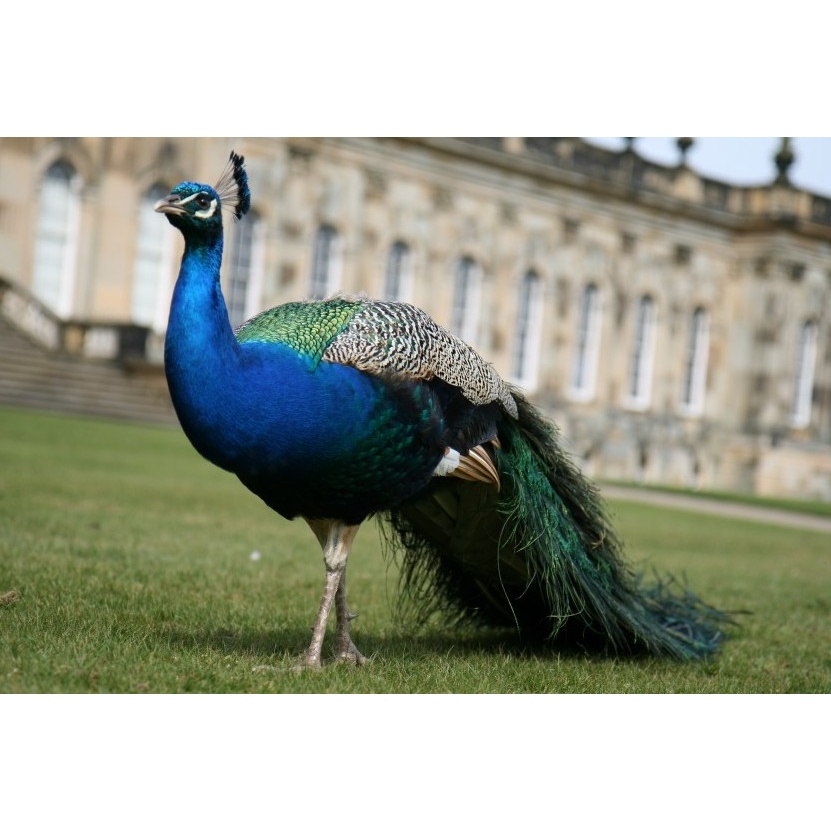
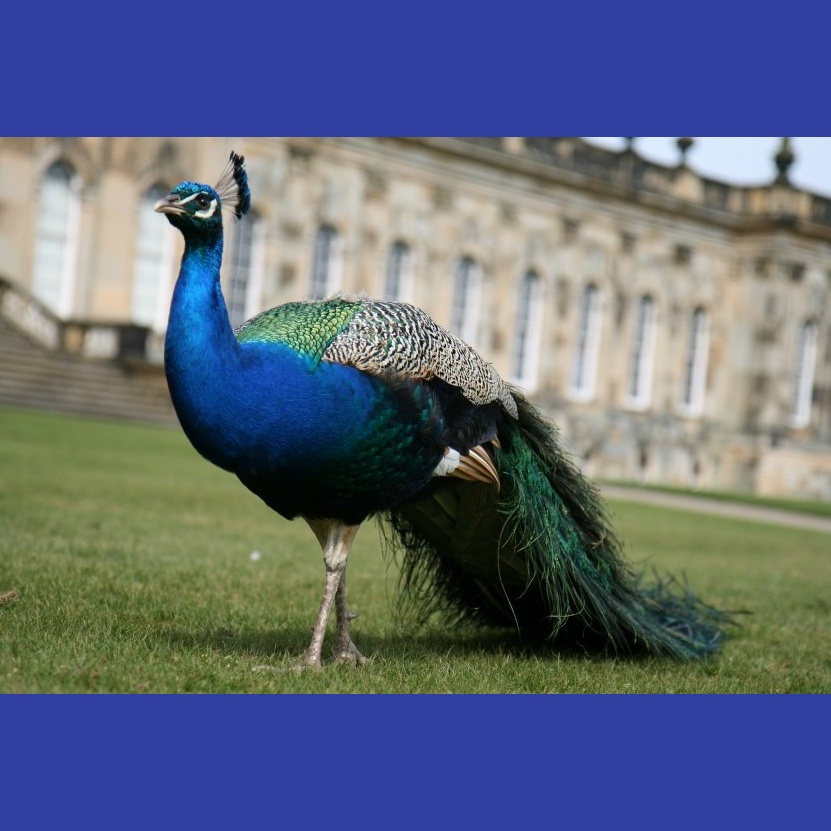
Added color

diff --git a/main.cpp b/main.cpp
@@ -36,6 +36,22 @@ uchar4* load_image_in_GPU(string filename)
   return d_in;
 }
 
+int hex_to_int(string hexa)
+{
+  int i;
+  stringstream s(hexa);
+  s>>std::hex>>i;
+  return i;
+}
+
+uchar4 hex_to_uchar4_color(string& color)
+{
+  int r = hex_to_int(color.substr(0, 2));
+  int g = hex_to_int(color.substr(2, 2));
+  int b = hex_to_int(color.substr(4, 2));
+  return make_uchar4(r, g, b, 255);
+}
+
 int main(int argc, char **argv){
 
   // Using boost library to parse commandline arguments.
@@ -49,7 +65,7 @@ int main(int argc, char **argv){
     ("square,s", "Square the image by attaching strips")
     ("sqBlur,q","Square Blur the image")
     ("filter,f", value<string>())
-    ("amount,a", value<int>()->default_value(20), "Specifies amount of blur")
+    ("amount,a", value<int>()->default_value(21), "Specifies amount of blur")
     ("color,c", value<string>()->default_value("white"), "Specifies the color to be used");
 
   // Generating a variable map for the options.
@@ -75,7 +91,9 @@ int main(int argc, char **argv){
   // Performing the required operation
   if(vm.count("blur")){
     int amount = vm["amount"].as<int>();
-    h_out = blur_ops(d_in, numRows, numCols, 9 , 2.0f);                        //TODO: Relate the blur parameters to the amount parameters.
+    if(amount % 2 == 0)
+      amount++;
+    h_out = blur_ops(d_in, numRows, numCols, amount);                      
   }
   else if(vm.count("mirror")){
     bool isVertical = ((vm["mirror"].as<char>() == 'v') ? true:false);
@@ -83,11 +101,14 @@ int main(int argc, char **argv){
   }
   else if(vm.count("sqBlur")){
     int amount = vm["amount"].as<int>();
-    h_out = square_blur(d_in, numRows, numCols, 21, 5.0f);    //TODO: Change these parameters.
+    if(amount % 2 == 0)
+      amount++;
+    h_out = square_blur(d_in, numRows, numCols, amount); 
   }
   else if(vm.count("square")){
-    string color = vm["color"].as<string>();
-    h_out = square_image(d_in, numRows, numCols, make_uchar4(255,255,255,255)); //TODO: Setting the color.
+    string color_hex = vm["color"].as<string>();
+    uchar4 color = hex_to_uchar4_color(color_hex);
+    h_out = square_image(d_in, numRows, numCols, color); 
   }
   else if(vm.count("filter")){
     string filter_name = vm["filter"].as<string>();

diff --git a/include/square_ops.h b/include/square_ops.h
@@ -2,6 +2,6 @@
 #define SQUARE_OPS_H__
 
 uchar4* square_image(uchar4* const d_in, size_t &numRows, size_t &numCols, uchar4 color);
-uchar4* square_blur(uchar4* d_image, size_t &numRows, size_t &numCols, int blurKernelWidth, float blurKernelSigma);
+uchar4* square_blur(uchar4* d_image, size_t &numRows, size_t &numCols, int blurKernelWidth);
 
 #endif

diff --git a/include/blur_ops.h b/include/blur_ops.h
@@ -2,6 +2,6 @@
 #define BLUR_OPS_H__
 
 void setFilter(float **h_filter, int *filterWidth, int blurKernelWidth, float blurKernelSigma);
-uchar4* blur_ops(uchar4* d_in, size_t numRows, size_t numCols, int blurKernelWidth, float blurKernelSigma);
+uchar4* blur_ops(uchar4* d_in, size_t numRows, size_t numCols, int blurKernelWidth);
 
 #endif

diff --git a/README.md b/README.md
@@ -27,9 +27,9 @@ Option | Short name | Arguments | Function
  --filter |-f|name        |For applying filters.
  --amount |-a|value       |For setting blur or square blur amount
  --color  |-c|name        |For specifying color used in the operation like squaring.
- 
- 
- <h2>Outputs</h2>
+----------|--|-----------|------
+
+## Outputs 
  
  1. Input image ![Peacock](/images/peacock.jpg)
  2. Square operations
